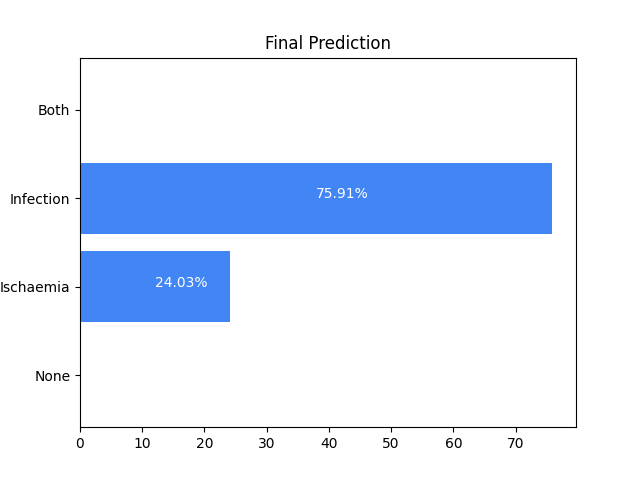
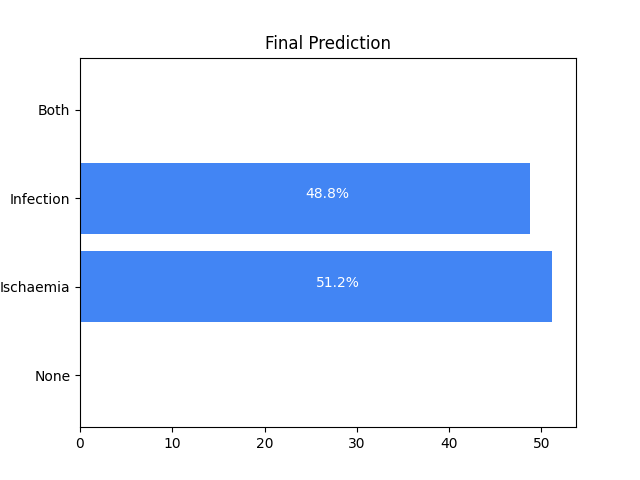
model2 updated, loading indicator added needs to be centered still, changed threshold of footValid to 0.42

diff --git a/upload/templates/image_form.html b/upload/templates/image_form.html
@@ -3,14 +3,17 @@
 
 <!-- load css file styles.css -->
 {%block styles%}
-    <link rel="stylesheet" href="{% static 'css/styles.css' %}">
+<link rel="stylesheet" href="{% static 'css/styles.css' %}">
 {%endblock styles%}
 
 
   
 {% block content %}
      <!--create a div called main-body that has a border around it and some text inside make sure it is centered  -->
-    <div class="main">
+
+     <script src="https://code.jquery.com/jquery-3.6.0.min.js"></script>
+    
+    <div class="main d-flex justify-content-center flex-column">
         <div class="container border border-4 border-dark rounded w-50 p-2 inst-box">
             <div class="row">
                 <div class="col-md-12">
@@ -26,16 +29,54 @@
                     <form method="post" enctype="multipart/form-data" class = "d-flex justify-content-center mb-2">  
                         {% csrf_token %}  
                         {{ form.image }}
-                        <button type="submit" class="border border-2 border-primary rounded-end bg-primary text-white">
+                        <button type="submit" class="border border-2 border-primary rounded-end bg-primary text-white" id="start-button">
                             Upload
-                        </button>                          
+                        </button>
                     </form>
                 </div>
             </div>
         </div>
-    
-    
-
+        <div id="loading">
+            <div class="spinner"></div>
+        </div>
+        <style>
+            #loading {
+                display: none;
+                text-align: center;
+                margin-top: 20px;
+            }
+            
+            .spinner {
+                width: 50px;
+                height: 50px;
+                border: 6px solid #213458;
+                border-top-color: #f8f3f3;
+                border-radius: 50%;
+                animation: spin 1.25s linear infinite;
+            }
+            
+            @keyframes spin {
+                0% {
+                transform: rotate(0);
+                }
+                100% {
+                transform: rotate(360deg);
+                }
+            }
+        </style>
+            
+        <script>
+            $(document).ready(function() {
+                // Hide the loading indicator initially
+                $('#loading').hide();
+            
+                // Add a submit event listener to the form
+                $('form').on('submit', function() {
+                // Show the loading indicator
+                $('#loading').show();
+                });
+            });
+        </script>
     
     
     
@@ -72,7 +113,5 @@
         if ( window.history.replaceState ) {
             window.history.replaceState( null, null, window.location.href );
         }
-    </script>
-    
- 
+    </script> 
 {% endblock%}

diff --git a/results/templates/bar_chart.html b/results/templates/bar_chart.html
@@ -14,8 +14,10 @@
     </div>
 </center>
 
-<div class="d-flex justify-content-center align-items-center">
+<div class="d-flex flex-column justify-content-center align-items-center">
     <img src="../images/barchart.png" class="results_chart"/>
+    <!-- make button to link to upload -->
+    <a href="{%url 'image_request'%}" class="btn btn-primary">Upload Another Image</a>
 </div>
 
 

diff --git a/upload/templates/base.html b/upload/templates/base.html
@@ -22,6 +22,8 @@
     <link rel="preconnect" href="https://fonts.gstatic.com" crossorigin>
     <link href="https://fonts.googleapis.com/css2?family=League+Spartan:wght@400;700&display=swap"     rel="stylesheet">
 
+    
+
     <!-- link styles.css here -->
     <link rel="stylesheet" href="{% static 'css/styles.css' %}"/>
 

diff --git a/results/templates/error.html b/results/templates/error.html
@@ -3,7 +3,10 @@
 
 {%block content%}
 
-
-<h1>ERROR PAGE CUSTOM</h1>
+<center>
+    <h1>
+        Cannot access results without uploading an image.
+    </h1>
+</center>
 
 {%endblock content%}

diff --git a/static/css/styles.css b/static/css/styles.css
@@ -77,7 +77,7 @@ body {
     }
 
     .results_chart{
-        width: 98%;
+        width: 95%;
         height: auto;
     }
 

diff --git a/upload/dfuc.py b/upload/dfuc.py
@@ -3,16 +3,16 @@ import torchvision
 from torch.utils.data.dataloader import DataLoader
 from torchvision import datasets, models, transforms
 from PIL import Image
-from vit_pytorch import SimpleViT
+from vit_pytorch.t2t import T2TViT
 
-base_vit = SimpleViT(
+base_vit = T2TViT(
+    dim = 512,
     image_size = 224,
-    patch_size = 16,
+    depth = 5,
+    heads = 8,
+    mlp_dim = 512,
     num_classes = 2,
-    dim = 1024,
-    depth = 6,
-    heads = 14,
-    mlp_dim = 2048
+    t2t_layers = ((7, 4), (3, 2), (3, 2)) # tuples of the kernel size and stride of each consecutive layers of the initial token to token module
 )
 
 torch.manual_seed(42)

diff --git a/results/urls.py b/results/urls.py
@@ -1,7 +1,13 @@
 from django.urls import path
 from . import views
+# get upload views
+from upload.views import image_request
+
+
 
 
 urlpatterns = [
     path("", views.barchart),
+    # add path to go to upload
+    path("", image_request),
 ]

diff --git a/upload/footValid.py b/upload/footValid.py
@@ -68,4 +68,4 @@ def footValid(img_name):
     print(f'other: {other[0]}')
     print(f'dfu: {dfu[0]}')
 
-    return dfu[0] > 0.4
+    return dfu[0] > 0.42
